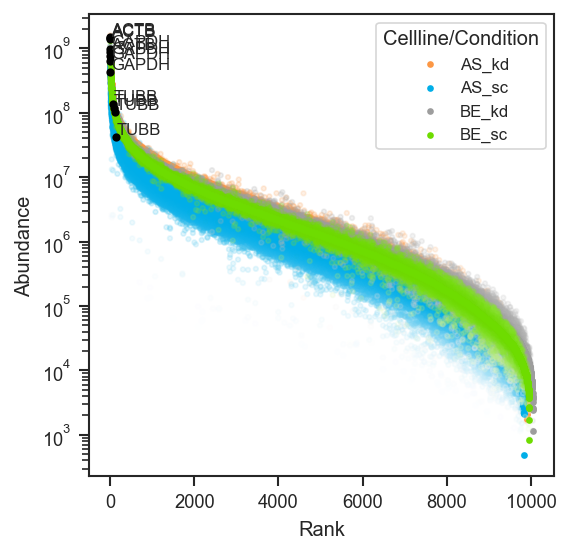
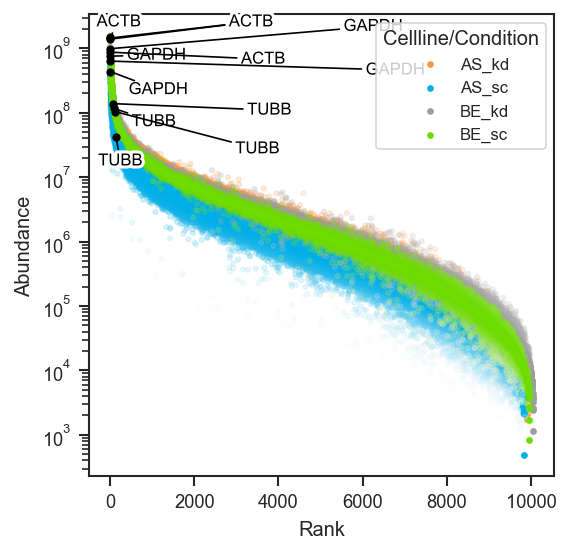
docs(plotting): add mark_rankquant and mark_volcano label style examples

diff --git a/docs/generate_plot_figures.py b/docs/generate_plot_figures.py
@@ -627,6 +627,39 @@ def main(*, skip_umap: bool = False) -> None:
     )
     save_current_fig("mark_rankquant")
 
+    rq_class = class_list[:1]
+    fig, ax = plt.subplots(figsize=(4, 4))
+    scplt.plot_rankquant(ax, pdata, classes=classes_2)
+    scplt.mark_rankquant(
+        ax, pdata, mark_df=mark_df, class_values=rq_class,
+        color="crimson", arrow_color="gray", text_style="box",
+        fontsize=7, label_type="gene", category="housekeeping",
+    )
+    save_current_fig("mark_rankquant_styled")
+
+    # second group: next few proteins not already in mark_df
+    var = pdata.prot.var
+    acc_b = [a for a in var.index if a not in set(mark_df["accession"])][:3]
+    mark_df_b = pd.DataFrame({"accession": acc_b})
+    if "Genes" in var.columns:
+        mark_df_b["gene_primary"] = var.loc[acc_b, "Genes"].astype(str).values
+    fig, ax = plt.subplots(figsize=(4, 4))
+    scplt.plot_rankquant(ax, pdata, classes=classes_2)
+    rq_texts = []
+    for group_df, group_color, cat in [
+        (mark_df, "crimson", "housekeeping"), (mark_df_b, "navy", "top abundant"),
+    ]:
+        ax, t = scplt.mark_rankquant(
+            ax, pdata, mark_df=group_df, class_values=rq_class,
+            color=group_color, label_type="gene", category=cat,
+            text_style="outline", return_texts=True,
+        )
+        rq_texts.extend(t)
+    scplt.adjust_and_outline_texts(
+        rq_texts, arrowprops=dict(arrowstyle="-", color="gray", lw=0.8)
+    )
+    save_current_fig("mark_rankquant_groups")
+
     fig, ax = plt.subplots(figsize=(5, 4))
     scplt.plot_raincloud(ax, pdata, classes=classes_2, color=rain_colors)
     save_current_fig("plot_raincloud")
@@ -1032,6 +1065,22 @@ def main(*, skip_umap: bool = False) -> None:
     scplt.mark_volcano(ax, volcano_df, label=ok[:3])
     save_current_fig("mark_volcano")
 
+    for style in ("box", "outline"):
+        fig, ax = plt.subplots(figsize=(4, 4))
+        ax, volcano_df = scplt.plot_volcano(
+            ax, pdata_norm, values=comparison_values, return_df=True, no_marks=True
+        )
+        # significance_score is signed: most up = largest, most down = most negative
+        sig = volcano_df.sort_values("significance_score", ascending=False)
+        up_top = sig[sig["significance"] == "upregulated"].head(3).index.tolist()
+        down_top = sig[sig["significance"] == "downregulated"].tail(3).index.tolist()
+        scplt.mark_volcano(
+            ax, volcano_df, label=[up_top, down_top],
+            label_color=["crimson", "navy"], category=["top up", "top down"],
+            text_style=style, s=20,
+        )
+        save_current_fig(f"mark_volcano_{style}")
+
     fig, ax = plt.subplots(figsize=(4, 4))
     ax, volcano_df = scplt.plot_volcano(
         ax,
@@ -1101,7 +1150,7 @@ def main(*, skip_umap: bool = False) -> None:
             show_names=False,
         )
     if texts:
-        scplt.volcano_adjust_and_outline_texts(texts, expand=(2, 2))
+        scplt.adjust_and_outline_texts(texts, expand=(2, 2))
     plt.savefig(
         OUT / "volcano_adjust_and_outline_texts.png", dpi=DPI, bbox_inches="tight"
     )

diff --git a/docs/tutorials/plotting.md b/docs/tutorials/plotting.md
@@ -329,14 +329,16 @@ plt.show()
 
 ![Plot rankquant (single-cell)](../assets/plots/plot_rankquant_sc.png)
 
-[`mark_rankquant`](../reference/plotting.md#src.scpviz.plotting.mark_rankquant) overlays specific proteins. `mark_df` requires an `accession` column and optionally `gene_primary`:
+[`mark_rankquant`](../reference/plotting.md#src.scpviz.plotting.mark_rankquant) overlays specific proteins on top of a `plot_rankquant` axis. `mark_df` requires an `accession` column and optionally `gene_primary` (used when `label_type="gene"`).
+
+**Choose which classes to mark with `class_values`.** Each protein sits at a different rank in every group, so a protein is marked (and labelled) once per entry in `class_values`. The entries are the group names shown in the `plot_rankquant` legend (the `classes` columns joined by `_`, e.g. `"AS_kd"`). Pass only the groups you care about; marking all of them repeats every label:
 
 ```python
 import pandas as pd
 from scpviz import utils as scu
 
 classes_2 = ["cellline", "condition"]
-class_list = scu.get_classlist(pdata.prot, classes_2)
+class_list = scu.get_classlist(pdata.prot, classes_2)   # e.g. ["AS_kd", "AS_sc", "BE_kd", "BE_sc"]
 
 acc = list(pdata.prot.var_names[:3])
 mark_df = pd.DataFrame({"accession": acc})
@@ -347,13 +349,50 @@ fig, ax = plt.subplots(figsize=(4, 4))
 scplt.plot_rankquant(ax, pdata, classes=classes_2)
 scplt.mark_rankquant(
     ax, pdata, mark_df=mark_df,
-    class_values=class_list[:4],
-    color="black", label_type="gene",
+    class_values=["AS_kd"],                 # only mark on this group
+    color="crimson", arrow_color="gray",
+    text_style="box",                       # boxed labels; "outline" = colored text + white outline
+    fontsize=7, label_type="gene",
+    category="housekeeping",                # adds an entry to a separate "marks" legend
 )
 plt.show()
 ```
 
-![Mark rankquant](../assets/plots/mark_rankquant.png)
+![Mark rankquant (boxed labels)](../assets/plots/mark_rankquant_styled.png)
+
+Labels are moved apart automatically (`adjust_text`) and joined to their points by thin lines. Useful options:
+
+| Option | What it does |
+|---|---|
+| `text_style` | `"outline"` (default): colored text with a white outline. `"box"`: rounded white box with a colored edge. |
+| `text_color`, `fontsize`, `arrow_color` | Label color (defaults to `color`), size, and connector-line color. |
+| `category`, `legend_loc` | Name for the legend entry and its location (default `"lower left"`, separate from the rankquant legend). |
+| `adjust_labels`, `adjust_text_kwargs` | Turn the automatic spreading off, or pass options such as `{"expand": (1.5, 1.5)}` to `adjust_text`. |
+
+**Marking several groups.** Call `mark_rankquant` once per group with `return_texts=True`, collect the labels, and run one adjustment at the end so labels from different groups also avoid each other. Each `category` becomes one entry in a single marks legend:
+
+```python
+texts = []
+for group_df, group_color, cat in [
+    (mark_df_a, "crimson", "housekeeping"),
+    (mark_df_b, "navy", "top abundant"),
+]:
+    ax, t = scplt.mark_rankquant(
+        ax, pdata, mark_df=group_df, class_values=["AS_kd"],
+        color=group_color, label_type="gene", category=cat,
+        text_style="outline", return_texts=True,
+    )
+    texts.extend(t)
+
+scplt.adjust_and_outline_texts(
+    texts, arrowprops=dict(arrowstyle="-", color="gray", lw=0.8)
+)
+plt.show()
+```
+
+![Mark rankquant (several groups)](../assets/plots/mark_rankquant_groups.png)
+
+[`adjust_and_outline_texts`](../reference/plotting.md#src.scpviz.plotting.adjust_and_outline_texts) works the same way for [`mark_volcano`](#volcano-mark).
 
 You can also build `mark_df` from a set-intersection query — see [Set operations](#upset-code).
 
@@ -1101,7 +1140,7 @@ fig, legend_fig = scplt.plot_clustermap(
 
     Highlight a fixed list in a single color.
 
--   **[`volcano_adjust_and_outline_texts`](#volcano-mark)**
+-   **[`adjust_and_outline_texts`](#volcano-mark)**
 
     ---
 
@@ -1133,9 +1172,9 @@ plt.show()
 
 ### Highlighting proteins { #volcano-mark }
 
-[`mark_volcano` API ↗](../reference/plotting.md#src.scpviz.plotting.mark_volcano) · [`mark_volcano_by_significance` API ↗](../reference/plotting.md#src.scpviz.plotting.mark_volcano_by_significance) · [`volcano_adjust_and_outline_texts` API ↗](../reference/plotting.md#src.scpviz.plotting.volcano_adjust_and_outline_texts)
+[`mark_volcano` API ↗](../reference/plotting.md#src.scpviz.plotting.mark_volcano) · [`mark_volcano_by_significance` API ↗](../reference/plotting.md#src.scpviz.plotting.mark_volcano_by_significance) · [`adjust_and_outline_texts` API ↗](../reference/plotting.md#src.scpviz.plotting.adjust_and_outline_texts)
 
-Set `no_marks=True` to render all points grey, then layer highlights with `mark_volcano_by_significance` (color by DE direction) and/or `mark_volcano` (single color). Collect all `texts` lists and call `volcano_adjust_and_outline_texts` once at the end:
+Set `no_marks=True` to render all points grey, then layer highlights with `mark_volcano_by_significance` (color by DE direction) and/or `mark_volcano` (single color). Collect all `texts` lists and call `adjust_and_outline_texts` once at the end:
 
 ```python
 fig, ax = plt.subplots(figsize=(4, 4))
@@ -1162,9 +1201,36 @@ ax, t = scplt.mark_volcano(
 )
 texts.extend(t)
 
-scplt.volcano_adjust_and_outline_texts(texts, expand=(1.5, 3))
+scplt.adjust_and_outline_texts(texts, expand=(1.5, 3))
 plt.show()
 ```
+
+Both mark functions share the same label look, set with `text_style`: `"box"` (default; colored text in a rounded white box) or `"outline"` (colored text with a white outline). `mark_volcano` also takes `category` (one legend name per label group) to add a legend of what was marked:
+
+```python
+fig, ax = plt.subplots(figsize=(4, 4))
+ax, volcano_df = scplt.plot_volcano(
+    ax, pdata_norm, values=values, return_df=True, no_marks=True
+)
+# significance_score is signed: most up = largest, most down = most negative
+sig = volcano_df.sort_values("significance_score", ascending=False)
+up_top = sig[sig["significance"] == "upregulated"].head(3).index.tolist()
+down_top = sig[sig["significance"] == "downregulated"].tail(3).index.tolist()
+
+scplt.mark_volcano(
+    ax, volcano_df,
+    label=[up_top, down_top],                  # one list per group
+    label_color=["crimson", "navy"],
+    category=["top up", "top down"],
+    text_style="box",                          # or "outline"
+    s=20,
+)
+plt.show()
+```
+
+| `text_style="box"` | `text_style="outline"` |
+|---|---|
+| ![Mark volcano boxed labels](../assets/plots/mark_volcano_box.png) | ![Mark volcano outlined labels](../assets/plots/mark_volcano_outline.png) |
 
 ### Customizing group annotations
 
